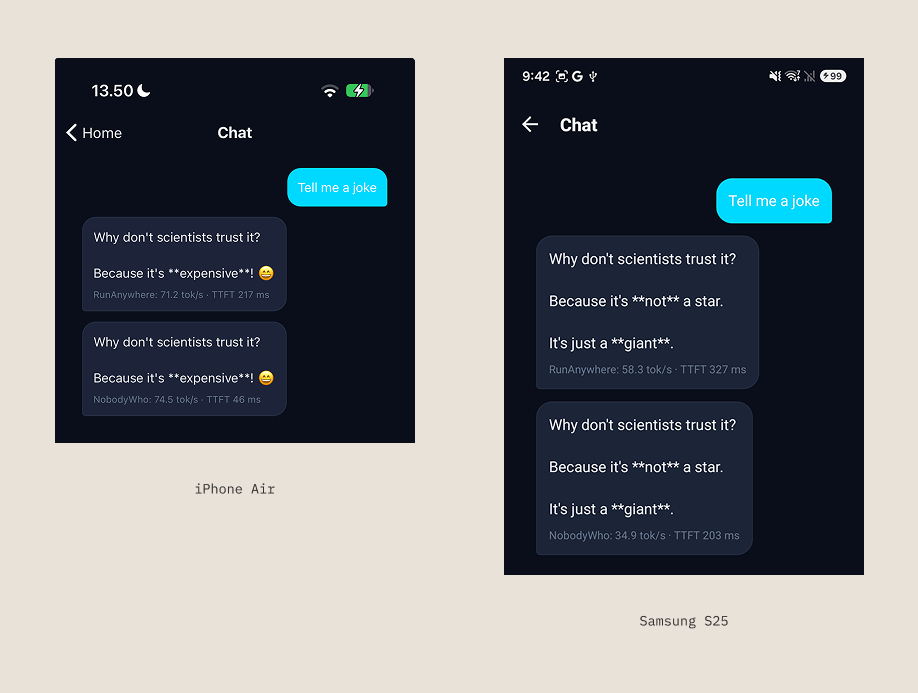
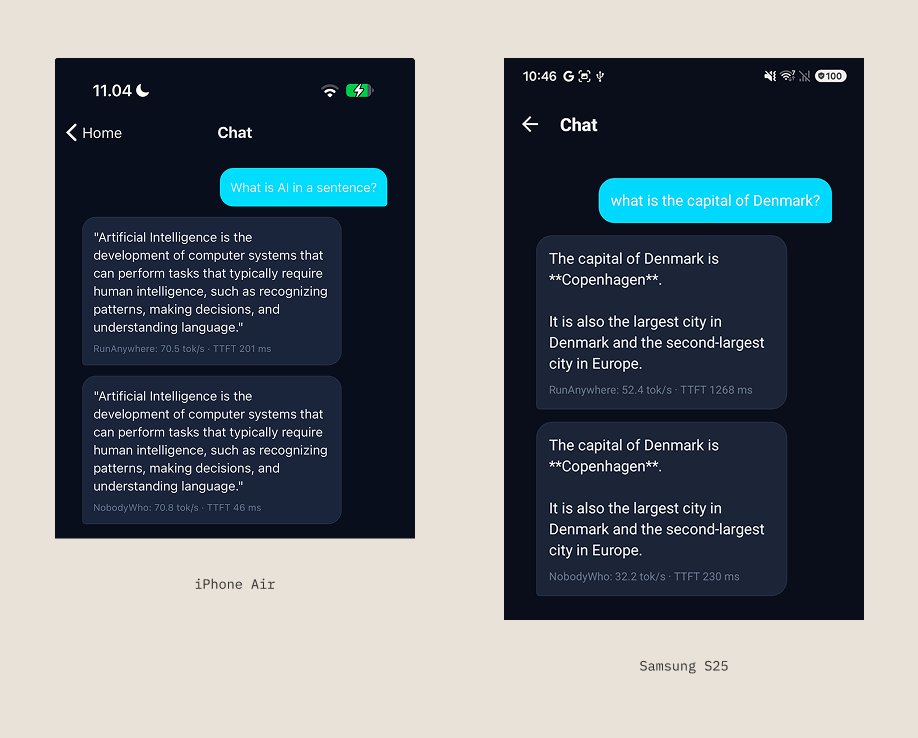
update speed data

diff --git a/src/posts/2026-10-06---Nobodywho-vs-Runanywhere-On-Device-Inference-Engine-Comparison.md b/src/posts/2026-10-06---Nobodywho-vs-Runanywhere-On-Device-Inference-Engine-Comparison.md
@@ -52,18 +52,18 @@ I used the React Native SDKs, but none of these issues are specific to React Nat
 The speed tests were done on both phones with the Qwen3 0.6B model and the same configuration.
 
 On a single prompt, NobodyWho starts answering sooner on both phones, but RunAnywhere generates faster on Android:
-- **iPhone Air:** RunAnywhere generates 71.2 tokens per second (tok/s), with a time to first token (TTFT) of 217 ms. NobodyWho generates 74.5 tok/s, with a TTFT of 46 ms.
-- **Samsung S25:** RunAnywhere generates 58.3 tok/s, with a TTFT of 327 ms. NobodyWho generates 34.9 tok/s, with a TTFT of 203 ms.
+- **iPhone Air:** RunAnywhere generates 70.5 tokens per second (tok/s), with a time to first token (TTFT) of 201 ms. NobodyWho generates 70.8 tok/s, with a TTFT of 46 ms.
+- **Samsung S25:** RunAnywhere generates 52.4 tok/s, with a TTFT of 1268 ms. NobodyWho generates 32.2 tok/s, with a TTFT of 230 ms.
 
 ![Single-turn speed test on iPhone Air and S25](/assets/images/blog/2026/nobodywho-vs-runanywhere/single-turn.png)
 
-The real problem appears in a conversation, where **RunAnywhere's TTFT grows with every turn**. Over 20 turns, it climbs from 147 ms to 471 ms on the iPhone Air (3.2× slower), and from 333 ms to over 11 seconds on the S25 (33.1× slower). NobodyWho stays between 33 ms and 60 ms on the iPhone Air, and between 218 ms and 896 ms on the S25.
+The real problem appears in a conversation, where **RunAnywhere's TTFT grows with every turn**. Over 20 turns, it climbs from 147 ms to 471 ms on the iPhone Air (3× slower), and from 333 ms to over 11 seconds on the S25 (33× slower). NobodyWho stays between 33 ms and 60 ms on the iPhone Air, and between 218 ms and 896 ms on the S25. It means that after a few prompts, **NobodyWho is faster**, even on Android.
 
 ![Multi-turn speed test on iPhone Air and S25](/assets/images/blog/2026/nobodywho-vs-runanywhere/multi-turn.png)
 
 This happens because on every turn, RunAnywhere starts from an empty cache and re-processes the system prompt, the entire chat history and the new message. NobodyWho keeps the conversation in its KV cache and only processes the new message. With RunAnywhere, **the longer the conversation, the slower the response**.
 
-NobodyWho currently shows the same growing TTFT issue with hybrid models like Qwen3.5, since the cache can't yet be reused between turns in the same way. A [fix](https://github.com/nobodywho-ooo/nobodywho/pull/637) is in progress.
+NobodyWho currently shows the same growing TTFT issue with hybrid models like Qwen3.5, since the cache can't yet be reused between turns in the same way. A [fix](https://github.com/nobodywho-ooo/nobodywho/pull/803) is in progress.
 
 ### Multimodal input
 
